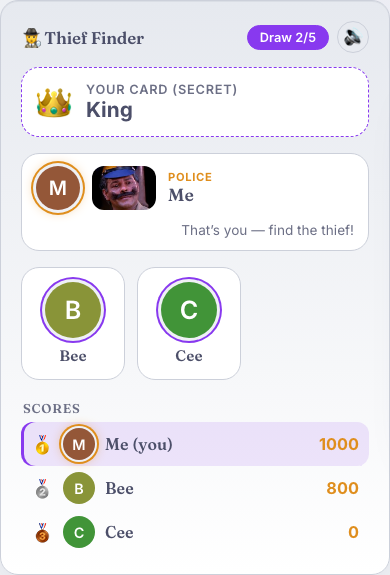
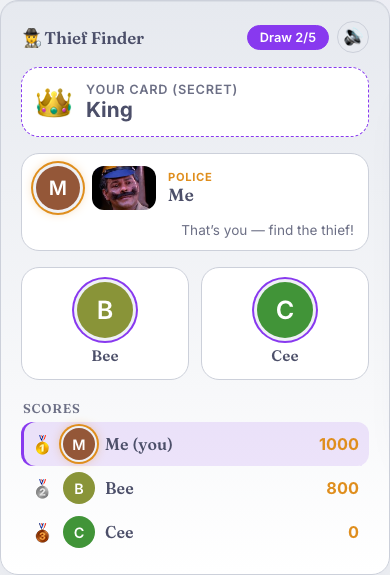
mobile ui improvements

diff --git a/src/lib/components/ThiefFinderTable.svelte b/src/lib/components/ThiefFinderTable.svelte
@@ -357,6 +357,14 @@
 		font-weight: 600;
 		letter-spacing: 0.01em;
 	}
+	.reveal-row .player-name,
+	.score-row .player-name {
+		flex: 1 1 auto;
+		min-width: 0;
+		overflow: hidden;
+		text-overflow: ellipsis;
+		white-space: nowrap;
+	}
 
 	.my-card {
 		display: flex;
@@ -400,7 +408,7 @@
 
 	.envelopes {
 		display: grid;
-		grid-template-columns: repeat(auto-fill, minmax(96px, 1fr));
+		grid-template-columns: repeat(auto-fill, minmax(72px, 1fr));
 		gap: 12px;
 		margin: 8px 0 4px;
 	}
@@ -454,8 +462,8 @@
 	}
 
 	.suspects {
-		display: flex;
-		flex-wrap: wrap;
+		display: grid;
+		grid-template-columns: repeat(auto-fit, minmax(88px, 1fr));
 		gap: 12px;
 	}
 	.suspect {
@@ -464,7 +472,7 @@
 		align-items: center;
 		gap: 8px;
 		padding: 14px 18px;
-		min-width: 104px;
+		min-width: 0;
 		background: var(--surface);
 		border: 1px solid var(--border);
 		border-radius: var(--radius);

diff --git a/src/lib/components/ChatPanel.svelte b/src/lib/components/ChatPanel.svelte
@@ -331,6 +331,13 @@
 		padding: 12px;
 		height: 380px;
 	}
+	/* stacked (single-column) layout on phones: scale to the viewport instead of a
+	   fixed 380px slab that eats half the screen */
+	@media (max-width: 760px) {
+		.chat {
+			height: clamp(260px, 55svh, 420px);
+		}
+	}
 	.chat-list {
 		flex: 1;
 		overflow-y: auto;
@@ -492,7 +499,8 @@
 		display: flex;
 		align-items: center;
 		justify-content: center;
-		padding: 24px;
+		padding: calc(24px + env(safe-area-inset-top)) calc(24px + env(safe-area-inset-right))
+			calc(24px + env(safe-area-inset-bottom)) calc(24px + env(safe-area-inset-left));
 		cursor: zoom-out;
 	}
 	.lightbox img {

diff --git a/src/lib/components/RoomLobby.svelte b/src/lib/components/RoomLobby.svelte
@@ -399,6 +399,11 @@
 	}
 	.member-name {
 		font-weight: 500;
+		flex: 1 1 auto;
+		min-width: 0;
+		overflow: hidden;
+		text-overflow: ellipsis;
+		white-space: nowrap;
 	}
 	/* trailing controls (Follow + host ⋮) take the slack, right-aligned */
 	.row-actions {
@@ -429,6 +434,7 @@
 		gap: 4px;
 		padding: 6px;
 		min-width: 150px;
+		max-width: min(220px, calc(100vw - 24px));
 		background: var(--surface);
 		border: 1px solid var(--border);
 		border-radius: 10px;

diff --git a/src/app.css b/src/app.css
@@ -315,6 +315,22 @@ textarea.input {
 	outline-offset: 1px;
 }
 
+/* Touch devices: 16px inputs stop iOS focus-zoom; buttons meet a comfortable
+   tap height. Gated on coarse pointers so desktop density is unchanged. */
+@media (pointer: coarse) {
+	.input,
+	.select,
+	textarea.input {
+		font-size: 16px;
+	}
+	.btn {
+		min-height: 44px;
+	}
+	.btn--sm {
+		min-height: 40px;
+	}
+}
+
 .label {
 	display: block;
 	font-size: 0.8rem;

diff --git a/src/lib/components/VoiceBar.svelte b/src/lib/components/VoiceBar.svelte
@@ -72,10 +72,16 @@
 		display: flex;
 		align-items: center;
 		gap: 5px;
+		max-width: 160px;
 		background: var(--surface);
 		border: 1px solid var(--border);
 		border-radius: 999px;
 		padding: 2px 10px 2px 2px;
 		font-size: 0.8rem;
+	}
+	.voice-name {
+		overflow: hidden;
+		text-overflow: ellipsis;
+		white-space: nowrap;
 	}
 </style>

diff --git a/src/routes/room/[id]/+page.svelte b/src/routes/room/[id]/+page.svelte
@@ -379,11 +379,11 @@
 	}
 	.room-grid {
 		display: grid;
-		grid-template-columns: 1fr 320px;
+		grid-template-columns: minmax(0, 1fr) minmax(0, 320px);
 		gap: 18px;
 		align-items: start;
 	}
-	@media (max-width: 860px) {
+	@media (max-width: 760px) {
 		.room-grid {
 			grid-template-columns: 1fr;
 		}

diff --git a/src/routes/+layout.svelte b/src/routes/+layout.svelte
@@ -125,5 +125,11 @@
 		.profile-name {
 			display: none;
 		}
+		.topbar {
+			gap: 8px;
+		}
+		.topbar-right {
+			gap: 8px;
+		}
 	}
 </style>
